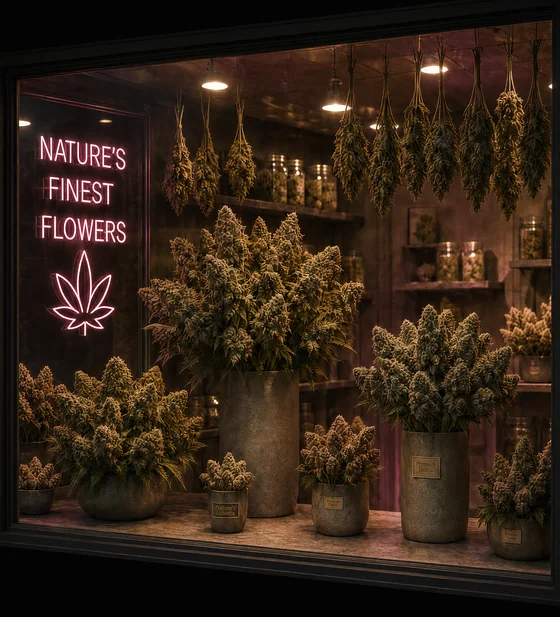
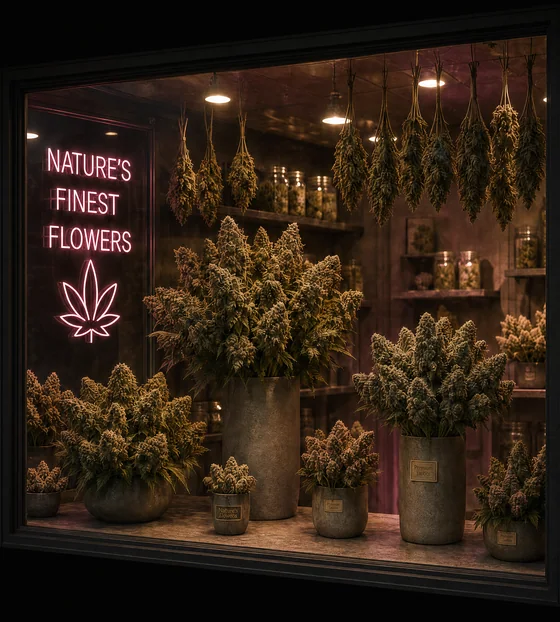
choice: right window crop expanded and quad fitted parallel to the frame
The previous right rect cut the frame's top-right corner (fit-quad extrapolated
it to y=-1.8%) and the left jamb. Rect expanded to {18,680,2124,2360}; the quad
was then FITTED on the final crop by least-squares with outlier rejection
(41/41 inliers on every edge) and proven with the red-mask preview: top falls
10.3% left-to-right, bottom rises 9.7% - the clip now runs parallel to the
photographed frame, which spans the crop's full width.

New tools committed: scripts/fit-quad.mjs (robust edge fit on final crops) and
scripts/simulate-panel.mjs (renders exactly what the panel displays, clip and
idle filter included - proved the left window was already tight and the user's
screenshot was a stale deployment).

Verified on the production deploy: idle signs +14/-14, select counter-rotates
to face camera, Escape resets. NOTE: the local dev server went inert (hydration
never ran) after repeated production builds shared .next with a live dev
process - rm -rf .next before next dev session; production unaffected.

Changed region(s): [[0.0, 0.0308, 1.0, 0.9546], [0.9411, 0.8314, 0.9714, 0.8622], [0.5768, 0.8006, 0.6071, 0.8314]]

diff --git a/src/components/ShopChoice.tsx b/src/components/ShopChoice.tsx
@@ -60,10 +60,15 @@ const DOORS = {
     tint: '255, 143, 184', // rose
     text: '#FFD5E4',
     img: '/img/window-right',
-    ratio: '2070 / 2280',
-    // Measured and proven like the left. This render is viewed from its right:
-    // the right edge is nearer — top rises ~9% across, bottom falls ~8%.
-    clip: 'polygon(0.5% 10.1%, 99.3% 0.9%, 99.4% 98.6%, 0.4% 90.8%)',
+    ratio: '2124 / 2360',
+    /**
+     * Fitted by scripts/fit-quad.mjs on the final crop (41/41 edge inliers) and
+     * proven with the red-mask preview: the quad's top and bottom run PARALLEL
+     * to the photographed frame (top falls 10.3% left-to-right, bottom rises
+     * 9.7% — the render's own perspective, right edge nearer). The frame spans
+     * the crop's full width, so the sides sit at 0/100%.
+     */
+    clip: 'polygon(0% 11.1%, 100% 0.8%, 100% 97.4%, 0% 87.7%)',
     // Mirror of the left: right edge nearer, so the sign's last letters sit
     // closest to the viewer. Negative rotateY brings the RIGHT edge forward.
     signAngle: -14,
